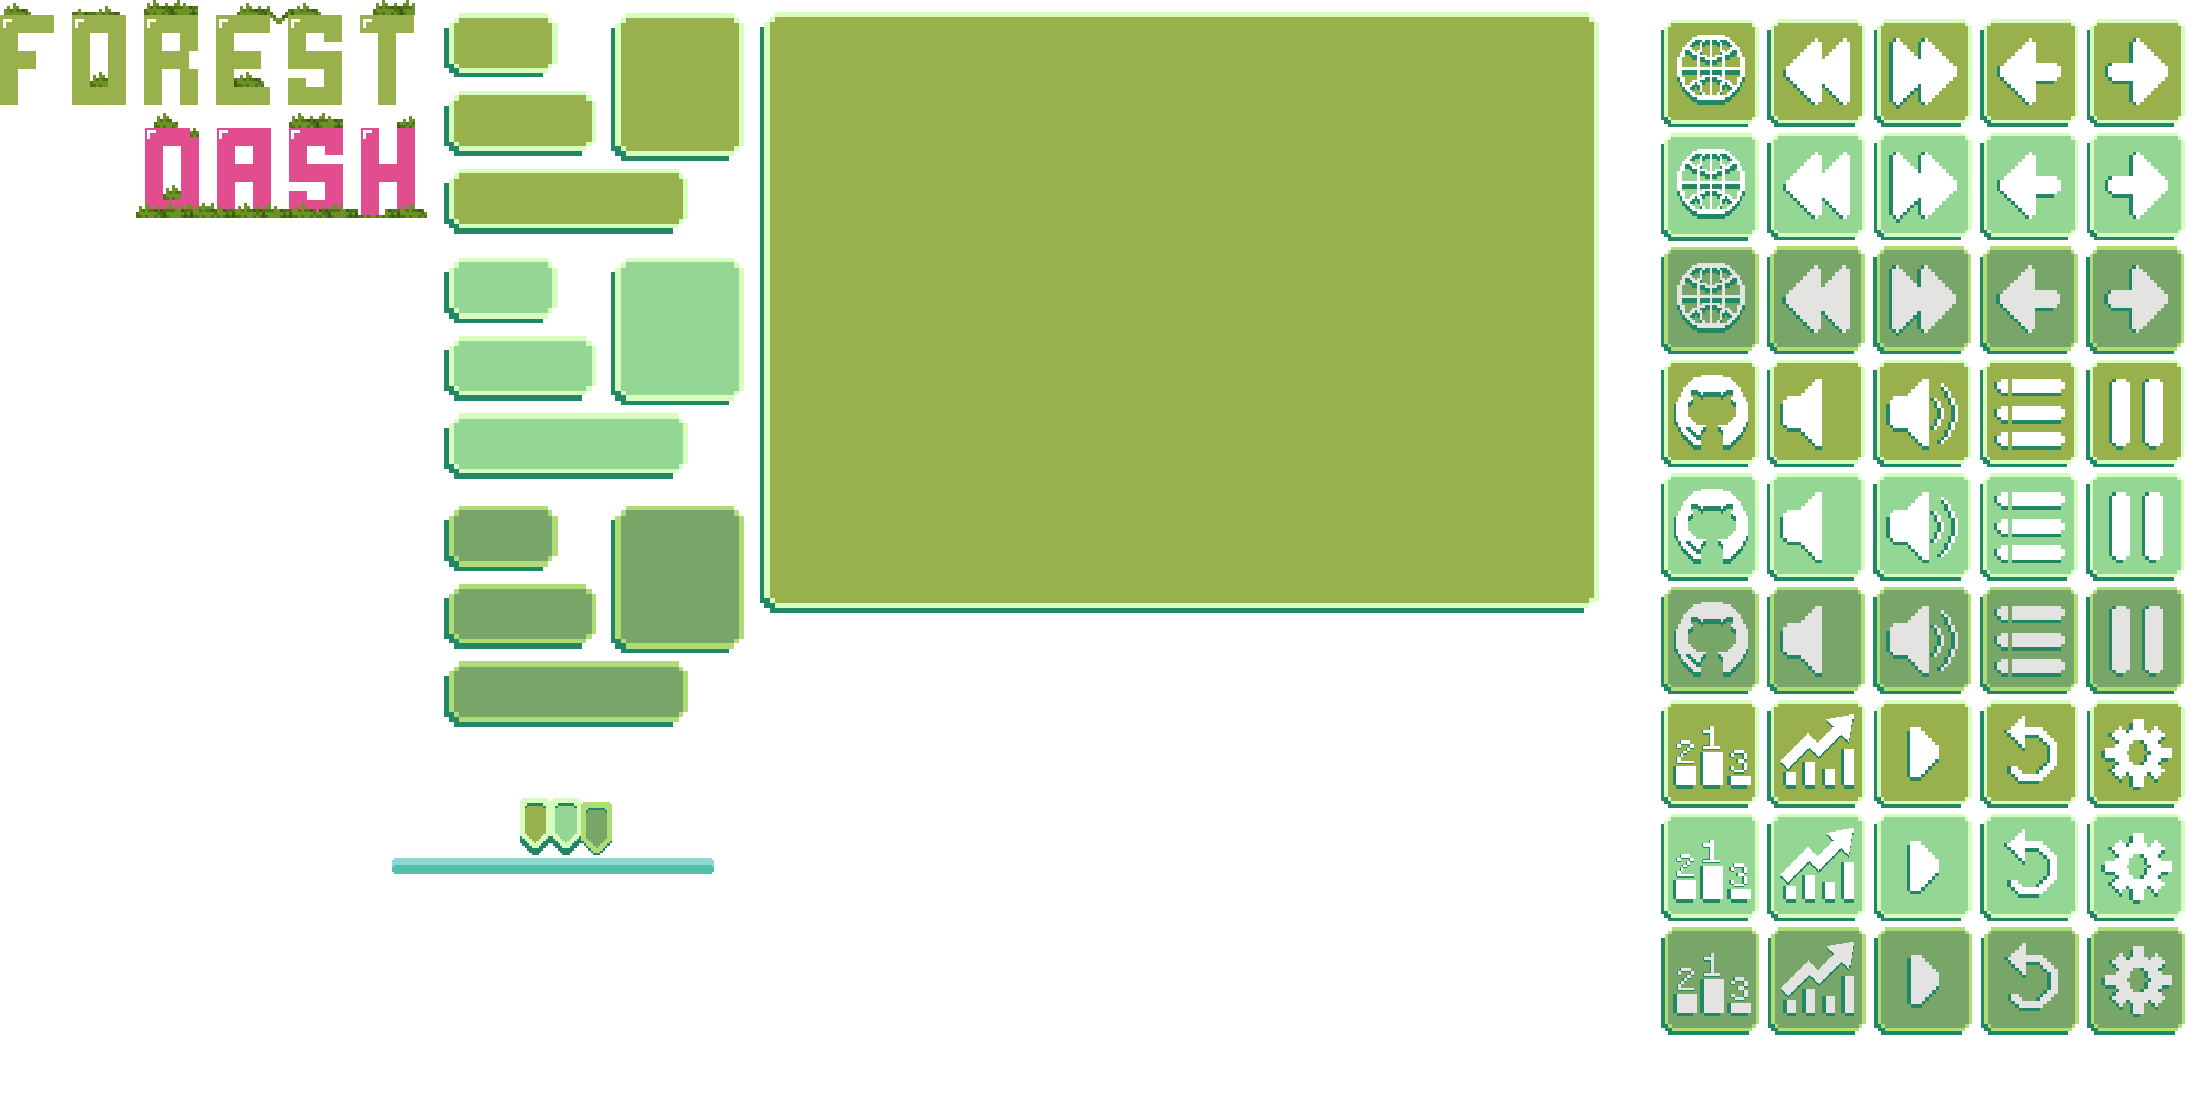
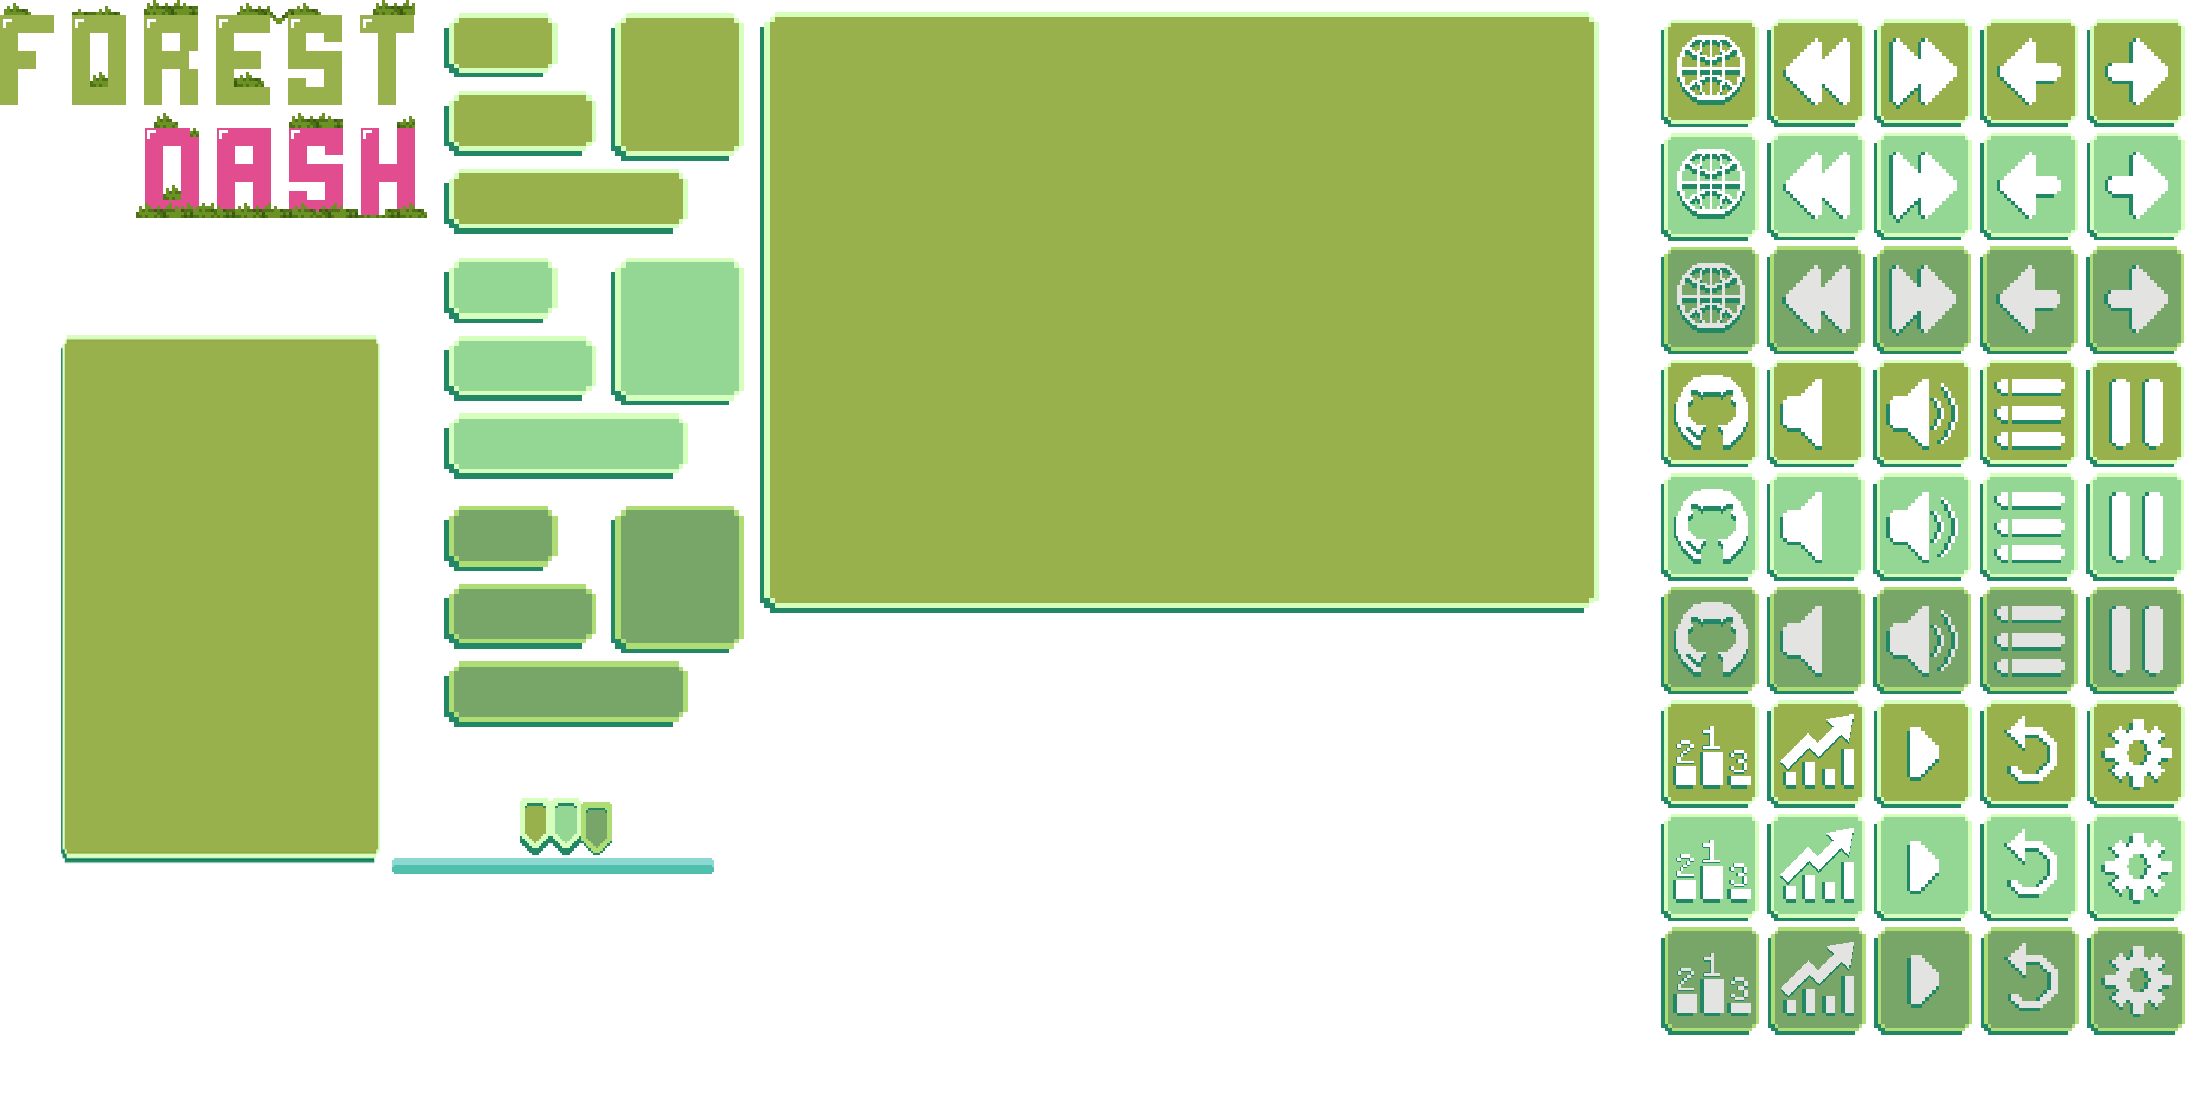
Pause Menu (slider left)

Changed region(s): [[0.0, 0.2812, 0.1854, 0.7812]]

diff --git a/Forrest Dash UI/Motor2D/j1Scene.cpp b/Forrest Dash UI/Motor2D/j1Scene.cpp
@@ -15,6 +15,7 @@
 #include "J1Gui.h"
 #include "j1Pathfinding.h"
 #include "j1MainMenu.h"
+#include "j1FadeToBlack.h"
 #include "Brofiler/Brofiler.h"
 
 j1Scene::j1Scene() : j1Module()
@@ -123,9 +124,20 @@ bool j1Scene::PreUpdate(float dt)
 bool j1Scene::Update(float dt)
 {
 	BROFILER_CATEGORY("Update_Scene", Profiler::Color::Tomato);
-	//PAUSE (WIP)
+	//PAUSE
 	if (App->input->GetKey(SDL_SCANCODE_ESCAPE) == KEY_DOWN) {
-		PauseMenu();
+		
+		if (current_level != nullptr)
+		{
+			if (App->Pause())
+			{
+				PauseMenu();
+			}
+			else
+			{
+				DestroyMenu();
+			}
+		}
 	}
 
 	if (App->input->GetKey(SDL_SCANCODE_KP_PLUS) == KEY_DOWN) {
@@ -135,6 +147,9 @@ bool j1Scene::Update(float dt)
 	if (App->input->GetKey(SDL_SCANCODE_KP_MINUS) == KEY_DOWN) {
 		App->audio->musicvolume(0.05, 0);
 		App->audio->fxvolume(0.05, 0);
+	}
+	if (App->input->GetKey(SDL_SCANCODE_P) == KEY_DOWN) {
+		panel->to_delete = true;
 	}
 	Debug();
 	App->map->Draw();
@@ -414,16 +429,61 @@ bool j1Scene::CreateEntities() {
 
 void j1Scene::PauseMenu()
 {
-	if (App->GetPause() == false){ App->Pause(); }
-	else { App->Pause(); }
+	if (App->GetPause() == false) { App->Pause(); }
 	LOG("menu de pausa");
-	SDL_Rect rect = { 760, 12, 886, 604 };
-	//panel = App->gui->CreateGuiElement(Types::image, (App->win->width - 850) / 2, (App->win->height - 200) / 2, rect, rect, rect, nullptr, this);
+	SDL_Rect rect = { 61, 334, 320, 528 };
+	panel = App->gui->CreateGuiElement(Types::image, (App->win->width - 320) / 2, (App->win->height - 310) / 2, rect, nullptr, this);
+	panel->follow = true;
+	resumeButton = App->gui->CreateGuiElement(Types::button, 40, 20, { 444, 169, 244, 65 }, panel, this, NULL);
+	resumeButton->setRects({ 444, 413, 244, 66 }, { 444, 661, 244, 65 });
+	text = App->gui->CreateGuiElement(Types::text, 30, 14, rect, resumeButton, this, "RESUME");
 
-	resumeButton = App->gui->CreateGuiElement(Types::button, 95, 370, { 444, 169, 244, 65 }, { 444, 413, 244, 66 }, { 444, 661, 244, 65 }, panel, this, NULL);
-	text = App->gui->CreateGuiElement(Types::text, 40, 14, rect, rect, rect, resumeButton, this, "RESUME");
+	mainmenuButton = App->gui->CreateGuiElement(Types::button, 40, 100, { 444, 169, 244, 65 }, panel, this, NULL);
+	mainmenuButton->setRects({ 444, 413, 244, 66 }, { 444, 661, 244, 65 });
+	text2 = App->gui->CreateGuiElement(Types::text, 30, 14, rect, mainmenuButton, this, "MAIN MENU");
+
+	rect = { 0, 0, 427, 218 };
+
+	logo = App->gui->CreateGuiElement(Types::image, -100, -210, rect, panel, this);
 
 
-	mainmenuButton = App->gui->CreateGuiElement(Types::button, 95, 570, { 444, 169, 244, 65 }, { 444, 413, 244, 66 }, { 444, 661, 244, 65 }, panel, this, NULL);
-	text = App->gui->CreateGuiElement(Types::text, 50, 14, rect, rect, rect, mainmenuButton, this, "MAIN MENU");
+	/*volume = App->gui->CreateGuiElement(Types::slider, 40, 180, rect, panel, this);*/
+}
+
+void j1Scene::DestroyMenu()
+{
+	if (App->GetPause() == true) { App->Pause(); }
+	panel->to_delete = true;
+	resumeButton->to_delete = true;
+	mainmenuButton->to_delete = true;
+	text->to_delete = true;
+	text2->to_delete = true;
+	logo->to_delete = true;
+}
+
+void j1Scene::GuiInput(GuiItem* item)
+{
+	/*float f;
+	if (item->parent->type == Types::slider) {
+		f = item->parent->returnSliderPos();
+		LOG("%f", f);
+	}*/
+
+	if (item == resumeButton)
+	{
+		DestroyMenu();
+
+	}
+	if (item == mainmenuButton)
+	{
+		App->map->CleanUp();
+		App->menu->Start();
+		checkpoint = false;
+		current_level.create("menu.tmx");
+		App->map->Load(current_level.GetString());
+		App->audio->PlayMusic(App->map->data.music.GetString());
+		App->EntityManager->EntityCleanUp();
+		DestroyMenu();
+	}
+
 }

diff --git a/Forrest Dash UI/Motor2D/j1Wizard.cpp b/Forrest Dash UI/Motor2D/j1Wizard.cpp
@@ -236,21 +236,21 @@ bool j1Wizard::Pathfinding(float dt) {
 		state = WD_PATHFINDING;
 		//This makes a comparison with the players position to make the correct move
 		if (path->At(1)->x < origin.x) {
-			position.x -= speedX * DT_CONVERTER * dt;
+			position.x -= speedX * WIZARD_DT_CONVERTER * dt;
 			flip = SDL_FLIP_NONE;
 		}
 
 		if (path->At(1)->x > origin.x) {
-			position.x += speedX * DT_CONVERTER * dt;
+			position.x += speedX * WIZARD_DT_CONVERTER * dt;
 			flip = SDL_FLIP_HORIZONTAL;
 		}
 
 		if (path->At(1)->y < origin.y) {
-			position.y -= speedY * DT_CONVERTER * dt;
+			position.y -= speedY * WIZARD_DT_CONVERTER * dt;
 		}
 
 		if (path->At(1)->y > origin.y) {
-			position.y += speedY * DT_CONVERTER * dt;
+			position.y += speedY * WIZARD_DT_CONVERTER * dt;
 		}
 	}
 	for (uint i = 0; i < path->Count(); ++i)

diff --git a/Forrest Dash UI/Motor2D/j1Scene.h b/Forrest Dash UI/Motor2D/j1Scene.h
@@ -48,6 +48,7 @@ private:
 	bool changeEntities = false;
 	void PauseMenu();
 	void DestroyMenu();
+	void GuiInput(GuiItem*);
 public:
 	p2SString current_level;
 	p2List<p2SString> levels;
@@ -57,11 +58,15 @@ public:
 	Animation flag;
 	bool checkpoint = false;
 
+
+	bool pausemenu = false;
 	GuiItem* text;
+	GuiItem* text2;
 	GuiItem* resumeButton;
 	GuiItem* mainmenuButton;
 	GuiItem* volume;
 	GuiItem* panel;
+	GuiItem* logo;
 };
 
 #endif // __j1SCENE_H__

diff --git a/Forrest Dash UI/Motor2D/j1Wizard.h b/Forrest Dash UI/Motor2D/j1Wizard.h
@@ -9,6 +9,8 @@
 #include "p2Point.h"
 #include "p2DynArray.h"
 
+#define WIZARD_DT_CONVERTER 30
+
 struct SDL_Texture;
 struct Collider;
 struct Anim;
